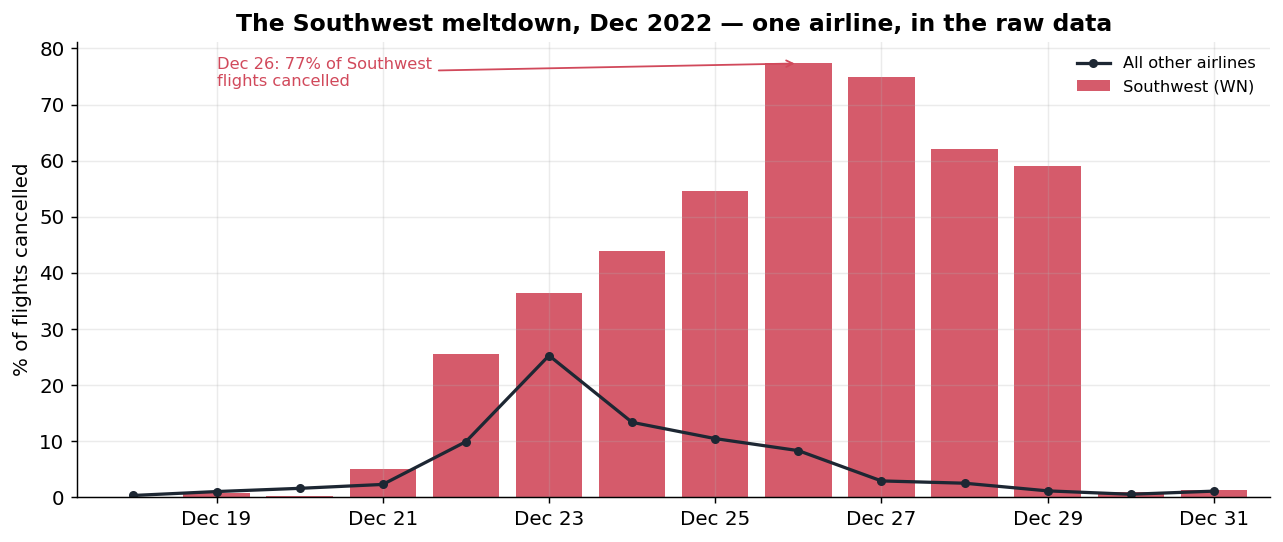
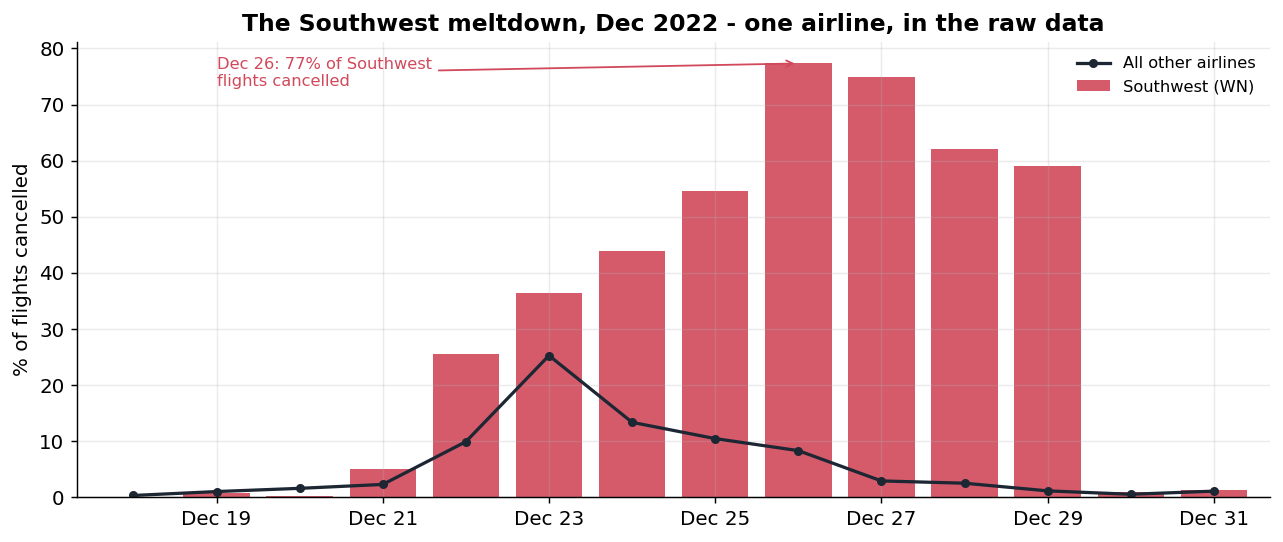
modified

Changed region(s): [[0.1871, 0.0, 0.873, 0.059]]

diff --git a/analysis.py b/analysis.py
@@ -1,5 +1,5 @@
 """
-US Air Travel 2019-2023 — what the recovery really looked like.
+US Air Travel 2019-2023 - what the recovery really looked like.
 Real BTS data (3M flight sample). DuckDB SQL + matplotlib.
 Findings: (1) business demand never recovered, leisure overshot;
 (2) the Dec-2022 Southwest meltdown in raw data; (3) delays cascade through the day.
@@ -40,12 +40,12 @@ ax.fill_between(mo["m"], mo["flights"], color=ACC, alpha=0.08)
 trough = mo.loc[mo["flights"].idxmin()]
 ax.scatter([trough["m"]],[trough["flights"]], color=WARN, zorder=5)
 ax.annotate(f"Apr-May 2020:\n~70% of flights gone",
-            xy=(trough["m"],trough["flights"]), xytext=(trough["m"]+pd.Timedelta(days=120),trough["flights"]+12000),
+            xy=(trough["m"],trough["flights"]), xytext=(trough["m"]+pd.Timedelta(days=70),6500),
             fontsize=9,color=WARN,arrowprops=dict(arrowstyle="->",color=WARN))
 ax.set_title("US air travel demand, 2019-2023 (monthly flights, BTS sample)")
 ax.set_ylabel("Flights / month"); ax.xaxis.set_major_locator(mdates.MonthLocator(bymonth=[1,7])); ax.xaxis.set_major_formatter(mdates.DateFormatter("%b %Y"))
 ax.margins(x=0.01); fig.tight_layout()
-fig.savefig("aviation-2019-2023/charts/01_covid_demand_curve.png",bbox_inches="tight"); plt.close(fig)
+fig.savefig("charts/01_covid_demand_curve.png",bbox_inches="tight"); plt.close(fig)
 
 # ------------------------------------------------- 2) business vs leisure recovery
 leisure = ('MCO','MIA','FLL','PBI','RSW','TPA','LAS','SJU','HNL','OGG','PHX')
@@ -78,7 +78,7 @@ ax.annotate("Leisure 2023: 107",xy=(piv3.index[-2],piv3["leisure_idx"].iloc[-2])
 ax.annotate("Business stuck at 87",xy=(piv3.index[-2],piv3["business_idx"].iloc[-2]),
             fontsize=9,color=ACC,xytext=(6,-14),textcoords="offset points")
 ax.margins(x=0.01); fig.tight_layout()
-fig.savefig("aviation-2019-2023/charts/02_business_vs_leisure_recovery.png",bbox_inches="tight"); plt.close(fig)
+fig.savefig("charts/02_business_vs_leisure_recovery.png",bbox_inches="tight"); plt.close(fig)
 
 # ------------------------------------------------------ 3) Southwest Dec-2022
 sw = con.execute("""
@@ -100,11 +100,11 @@ peak = sw.loc[sw["pct"].idxmax()]
 ax.annotate(f"Dec 26: {peak['pct']:.0f}% of Southwest\nflights cancelled",
             xy=(peak["d"],peak["pct"]),xytext=(peak["d"]-pd.Timedelta(days=7),peak["pct"]-4),
             fontsize=9,color=WARN,arrowprops=dict(arrowstyle="->",color=WARN))
-ax.set_title("The Southwest meltdown, Dec 2022 — one airline, in the raw data")
+ax.set_title("The Southwest meltdown, Dec 2022 - one airline, in the raw data")
 ax.set_ylabel("% of flights cancelled")
 ax.xaxis.set_major_formatter(mdates.DateFormatter("%b %d"))
 ax.legend(frameon=False,fontsize=9); ax.margins(x=0.02); fig.tight_layout()
-fig.savefig("aviation-2019-2023/charts/03_southwest_meltdown.png",bbox_inches="tight"); plt.close(fig)
+fig.savefig("charts/03_southwest_meltdown.png",bbox_inches="tight"); plt.close(fig)
 
 # ------------------------------------------------------ 4) delay cascade by hour
 hr = con.execute("""
@@ -119,9 +119,9 @@ ax.fill_between(hr["h"],hr["avg_delay"],color=ACC,alpha=0.08)
 ax.set_title("Why your evening flight is cursed: delays cascade through the day")
 ax.set_xlabel("Scheduled departure hour"); ax.set_ylabel("Avg departure delay (min)")
 ax.set_xticks(range(5,24,2))
-ax.annotate("6am: ~0 min",xy=(6,hr.loc[hr.h==6,"avg_delay"].values[0]),fontsize=9,color=INK,xytext=(6,8),textcoords="offset points")
+ax.annotate(f"6am: ~{hr.loc[hr.h==6,'avg_delay'].values[0]:.1f} min",xy=(6,hr.loc[hr.h==6,"avg_delay"].values[0]),fontsize=9,color=INK,xytext=(6,8),textcoords="offset points")
 ax.annotate("late evening: 3-4x worse",xy=(20,hr.loc[hr.h==20,"avg_delay"].values[0]),fontsize=9,color=WARN,xytext=(-40,6),textcoords="offset points")
-fig.tight_layout(); fig.savefig("aviation-2019-2023/charts/04_delay_cascade.png",bbox_inches="tight"); plt.close(fig)
+fig.tight_layout(); fig.savefig("charts/04_delay_cascade.png",bbox_inches="tight"); plt.close(fig)
 
 # share of delay minutes from "late aircraft" early vs late
 share = con.execute("""
@@ -133,7 +133,7 @@ GROUP BY 1""").df()
 print("\n=== KEY NUMBERS ===")
 print("Recovery (vs 2019=100):  business 2023 ~87  |  leisure 2023 ~107")
 print(f"Southwest Dec-26-2022 cancellations: {peak['pct']:.0f}%")
-print(f"Delay: 6am {hr.loc[hr.h==6,'avg_delay'].values[0]:.1f}m -> 8pm {hr.loc[hr.h==20,'avg_delay'].values[0]:.1f}m")
+print(f"Delay: 6am {hr.loc[hr.h==6,'avg_delay'].values[0]:.1f}m to 8pm {hr.loc[hr.h==20,'avg_delay'].values[0]:.1f}m")
 print("Late-aircraft share of delay minutes:")
 for _,r in share.iterrows(): print(f"   {r['part']}: {r['late_aircraft_share']}%")
 print("charts written.")

diff --git a/README.md b/README.md
@@ -1,73 +1,75 @@
-# US Air Travel 2019–2023: the recovery wasn't what everyone thinks
+# US Air Travel 2019-2023: What the Recovery Actually Looked Like
 
-A data story built on **3,000,000 real US flights** (BTS on-time records, 2019–2023)
-about how air-travel demand collapsed, who came back, and where the system still
-breaks. SQL heavy-lifting in **DuckDB**, stats and charts in **Python**.
+An analysis of roughly 3,000,000 real US flights (BTS on-time records, 2019-2023):
+how air-travel demand collapsed during COVID, which segments came back, and where
+the system still breaks down. The heavy aggregation runs in SQL on DuckDB; the
+statistics and charts are done in Python.
 
 > **Data:** U.S. DOT Bureau of Transportation Statistics, "Reporting Carrier
-> On-Time Performance" — a 3M-row public sample (2019-01 → 2023-08). Real flights
-> actually operated by US carriers. Includes delay-cause breakdown and cancellations.
-> *(The CSV is ~600 MB and not committed here — grab it from BTS/Kaggle and drop it
-> in `av_data/`.)*
+> On-Time Performance" - a 3M-row public sample covering January 2019 to August
+> 2023. These are real flights operated by US carriers, with delay-cause
+> breakdowns and cancellations included. The CSV is about 600 MB and is not
+> committed here; download it from BTS or Kaggle and place it in `av_data/`.
 
----
+## Findings
 
-## Four findings
-
-### 1. Business travel never came back — leisure overshot
+### 1. Business travel never came back; leisure overshot
 
 ![Recovery](charts/02_business_vs_leisure_recovery.png)
 
-Both segments crashed together in spring 2020 (down ~70%). But the recovery split
-in two: by 2023, **leisure/sun routes ran 7% above their 2019 level**, while
-**business-hub routes plateaued at 87% and stopped climbing**. "Air travel
-recovered" is only half true — *leisure* recovered; business trips were structurally
-replaced (video calls) and never returned. For demand intelligence this is the whole
-ballgame: capacity and pricing should follow the segment that's actually growing.
+Both segments crashed together in spring 2020, each down about 70%. The recovery
+then split. By 2023, leisure and sun routes were running 7% above their 2019 level,
+while business-hub routes plateaued near 87% and stopped climbing. So "air travel
+recovered" is only partly accurate: leisure recovered, but business trips were
+structurally replaced by video calls and never fully returned. That distinction
+matters for anyone planning capacity or pricing, because the growth is concentrated
+in one segment.
 
 ### 2. The COVID demand cliff
 
 ![COVID curve](charts/01_covid_demand_curve.png)
 
-The monthly series puts a number on it: demand bottomed in April–May 2020 at roughly
-**30% of normal**, then clawed back over three years in the asymmetric way above.
+The monthly series puts a number on the collapse: demand bottomed out in
+April-May 2020 at roughly 30% of normal, then recovered over the next three years
+in the uneven way shown above.
 
-### 3. The Southwest meltdown, visible in raw data
+### 3. The Southwest meltdown, visible in the raw data
 
 ![Southwest](charts/03_southwest_meltdown.png)
 
-A winter storm hit every airline around Dec 22–23, 2022 — but only one *collapsed*.
-Southwest's cancellation rate climbed day over day to **77% on Dec 26**, while every
-other carrier was back under 10%. The data shows it wasn't the weather (that passed);
-it was one airline's operations. A single `WHERE carrier='WN'` tells the story.
+A winter storm hit every airline around December 22-23, 2022, but only one of them
+collapsed. Southwest's cancellation rate climbed day after day, reaching 77% on
+December 26, while every other carrier was already back under 10%. The data makes
+clear this wasn't really about the weather, which had passed; it was one airline's
+operations failing. A single `WHERE carrier='WN'` is enough to see it.
 
-### 4. Why your evening flight is cursed — delays cascade
+### 4. Why your evening flight runs late: delays cascade
 
 ![Delay cascade](charts/04_delay_cascade.png)
 
-Average departure delay grows from **~3.6 min at 6am to ~16.6 min by 8pm**. The
-cause column proves the mechanism: "late-aircraft" (the previous flight ran late) is
-**23% of delay minutes in the morning but 45% in the evening**. Delay isn't random —
-it accumulates through the day as aircraft fall behind. Book early flights.
-
----
+Average departure delay grows from about 3.6 minutes at 6am to roughly 16.6 minutes
+by 8pm. The cause breakdown explains the mechanism: "late-aircraft" delay (the
+previous flight on that plane ran late) is 23% of delay minutes in the morning but
+45% in the evening. Delay isn't random; it builds up over the course of the day as
+aircraft fall behind schedule. If you can, book early.
 
 ## Method
 
-- **DuckDB** runs SQL straight over the 600 MB CSV — aggregation, `CASE`-based
-  segmentation, date math, cancellation rates — no need to load it all into pandas.
-- Recovery is indexed to each segment's own **2019 monthly baseline**, so seasonality
-  isn't mistaken for recovery.
-- Delay causes use the BTS minute-allocation fields (carrier / weather / NAS /
-  security / late-aircraft).
+- DuckDB runs SQL directly over the 600 MB CSV (aggregation, `CASE`-based
+  segmentation, date math, cancellation rates), so there's no need to load the whole
+  file into pandas first.
+- Recovery is indexed to each segment's own 2019 monthly baseline, so normal
+  seasonality isn't mistaken for recovery.
+- Delay causes use the BTS minute-allocation fields: carrier, weather, NAS,
+  security, and late-aircraft.
 
-## How this maps to demand intelligence (Aviastats-style)
+## What these questions are good for
 
-This is a sandbox version of the questions a market-intelligence team answers on
-real ticketing data: *which segments are growing, where demand shifted, and which
-operational risks concentrate in one carrier or time-of-day.* The dataset has no
-fares, so this is a demand-and-reliability study, not pricing — adding fare data
-(DOT DB1B) extends it to elasticity and revenue management.
+These are the same questions a demand or market-intelligence team works through on
+real ticketing data: which segments are growing, where demand has shifted, and which
+operational risks concentrate in a single carrier or time of day. This dataset has no
+fares, so it's a demand-and-reliability study rather than a pricing one. Adding fare
+data (DOT DB1B) would extend it toward elasticity and revenue management.
 
 ## Reproduce
 
@@ -77,10 +79,11 @@ pip install -r requirements.txt
 python analysis.py     # writes charts/
 ```
 
-## Honest limitations
+## Limitations
 
-US carriers only; a 3M-row sample (proportional, so rates are reliable, absolute
-counts are sample-scaled); business/leisure is a destination proxy, not surveyed
-trip purpose; data ends Aug 2023.
+US carriers only. It's a 3M-row sample, so rates are reliable but absolute counts are
+sample-scaled. The business/leisure split is a destination proxy, not a surveyed trip
+purpose. The data ends in August 2023.
 
-*Tools: DuckDB · SQL (CTEs, window functions, CASE aggregation) · Python (pandas, numpy, matplotlib). Data: U.S. BTS.*
+*Tools: DuckDB, SQL (CTEs, window functions, CASE aggregation), Python (pandas,
+numpy, matplotlib). Data: U.S. BTS.*
